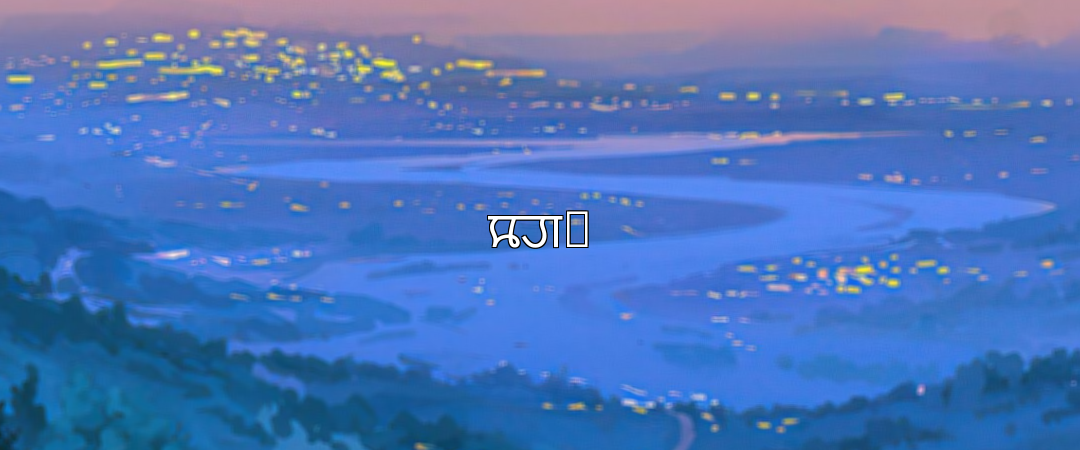
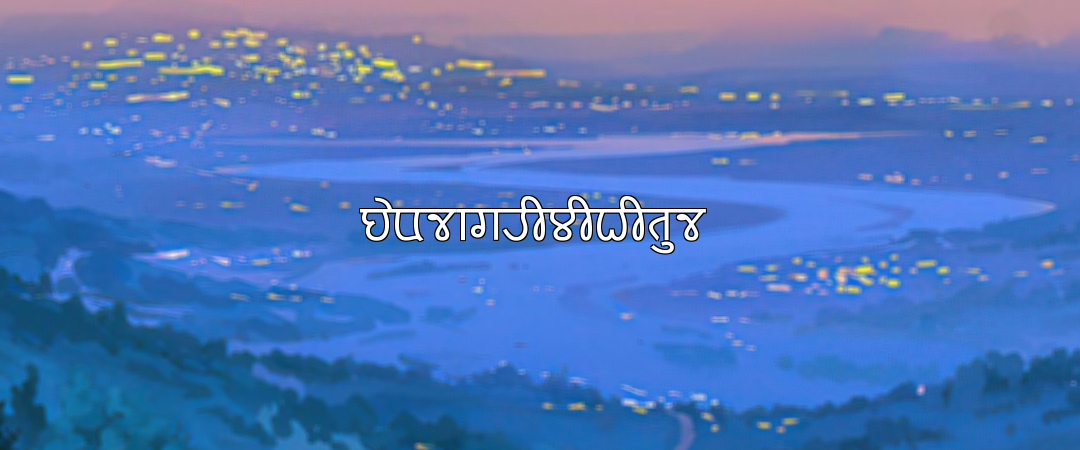
textonimage added

Changed region(s): [[0.3361, 0.4356, 0.6722, 0.56]]

diff --git a/modi/templates/translate/translated_data.html b/modi/templates/translate/translated_data.html
@@ -14,6 +14,9 @@
       </button>
     </div>
     <div class="text-white text-xl">{{ translated_data }}</div>
+    <a href="{% static 'images/generated_images/quote.png' %}" download>
+      <img src="{% static 'images/generated_images/quote.png' %}" class="w-full mt-2 rounded-2xl">
+    </a>
   </div>
   {% endif %}
 </div>

diff --git a/modi/views.py b/modi/views.py
@@ -22,8 +22,23 @@ def translate(request):
     text = request.POST.get('text_data')
     translated_data = requests.get(f'http://aksharamukha-plugin.appspot.com/api/public?source=Devanagari&target=Modi&text={text}')
 
+    # Font Size Default to 32, Height and Width by default is 612
+    img=convert(
+        quote=translated_data.text,
+        fg="white",
+        image="staticfiles/images/background_img.jpg",
+        border_color="black",
+        font_size=50,
+        font_file=None,
+        width=1080,
+        height=450)
+
+    # Save The Image as a Png file
+    generated_image = img.save("staticfiles/images/generated_images/quote.png")
+
     context = {
         "translated_data": translated_data.text,
+        "generated_image": generated_image
     }
     return render(request, 'translate/translated_data.html', context)
 
